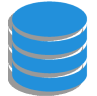
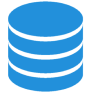
:lipstick: :bento: Altera imagens sem shadow e adiciona shadow no CSS

Changed region(s): [[0.0645, 0.0, 0.9032, 1.0], [0.4301, 0.0, 0.4946, 0.0217]]

diff --git a/css/components/skill-description.css b/css/components/skill-description.css
@@ -4,6 +4,8 @@
     width: 92px;
     height: 92px;
     margin-right: 18px;
+
+    filter: drop-shadow(-4px 4px 0px rgba(0, 0, 0, 0.4));
 }
 
 .skill-description .description {
